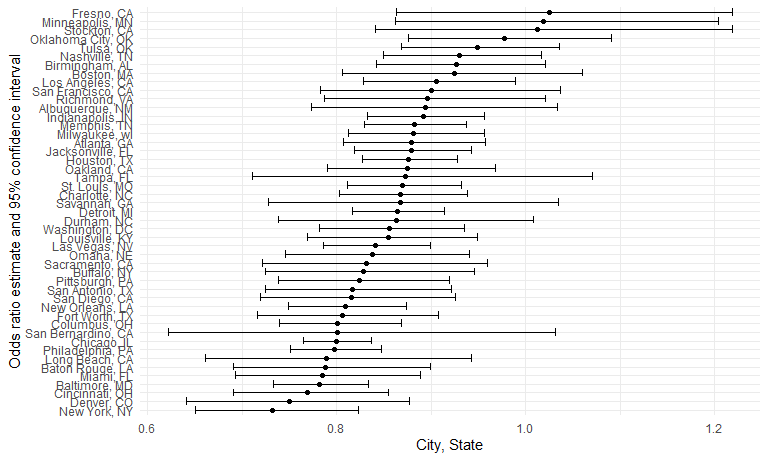
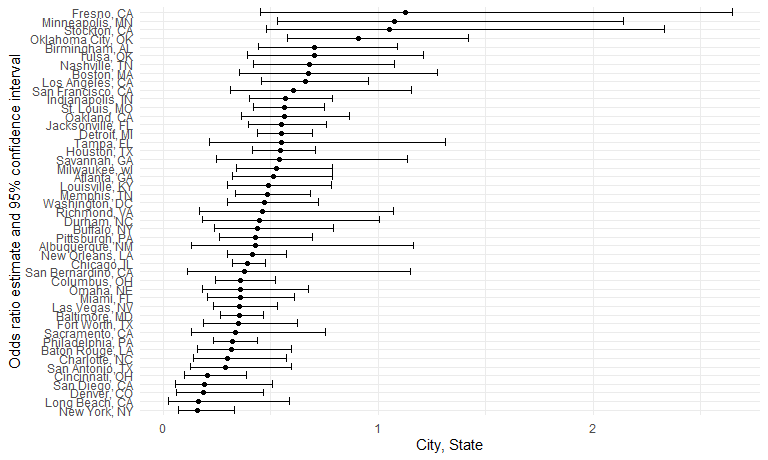
fixing the model to be logistics

diff --git a/P8105_hw6_rw3031.md b/P8105_hw6_rw3031.md
@@ -194,7 +194,7 @@ homocide|>
     resolve = case_when(
       disposition == "Open/No arrest" ~ 0,
       TRUE ~ 1))|>
-  summarise(model = list(glm(resolve~victim_age+victim_race+victim_sex)))|>
+  summarise(model = list(glm(resolve~victim_age+victim_race+victim_sex, family = "binomial")))|>
   mutate(results = map(model, ~ broom::tidy(.x, conf.int = TRUE, exponentiate = TRUE)))|>
   unnest(results)|>
   select(term, estimate, conf.low, conf.high)|>
@@ -204,7 +204,7 @@ homocide|>
     ## # A tibble: 1 × 4
     ##   term           estimate conf.low conf.high
     ##   <chr>             <dbl>    <dbl>     <dbl>
-    ## 1 victim_sexMale    0.781    0.733     0.833
+    ## 1 victim_sexMale    0.355    0.267     0.468
 
 ``` r
 homocide_glm = 
@@ -216,7 +216,7 @@ homocide|>
   group_by(city_state)|>
   nest()|>
   mutate(model = map(.x=data, ~glm(resolve~victim_age+victim_race+victim_sex, 
-                                         data = .x)),
+                                         data = .x, family="binomial")),
          results = map(model, ~ broom::tidy(.x, conf.int = TRUE, exponentiate = TRUE)))|>
   unnest(results)|>
   select(term, estimate, conf.low, conf.high)|>
@@ -227,24 +227,59 @@ homocide|>
     ## Adding missing grouping variables: `city_state`
 
 ``` r
-homocide_glm
+homocide_glm|>
+  knitr::kable()
 ```
 
-    ## # A tibble: 47 × 4
-    ## # Groups:   city_state [47]
-    ##    city_state      estimate conf.low conf.high
-    ##    <chr>              <dbl>    <dbl>     <dbl>
-    ##  1 Albuquerque, NM    0.894    0.774     1.03 
-    ##  2 Atlanta, GA        0.879    0.807     0.957
-    ##  3 Baltimore, MD      0.781    0.733     0.833
-    ##  4 Baton Rouge, LA    0.788    0.691     0.899
-    ##  5 Birmingham, AL     0.927    0.842     1.02 
-    ##  6 Boston, MA         0.924    0.806     1.06 
-    ##  7 Buffalo, NY        0.828    0.724     0.946
-    ##  8 Charlotte, NC      0.868    0.803     0.938
-    ##  9 Chicago, IL        0.800    0.764     0.836
-    ## 10 Cincinnati, OH     0.769    0.691     0.855
-    ## # ℹ 37 more rows
+| city_state         |  estimate |  conf.low | conf.high |
+|:-------------------|----------:|----------:|----------:|
+| Albuquerque, NM    | 0.4300644 | 0.1321195 | 1.1644219 |
+| Atlanta, GA        | 0.5120657 | 0.3227145 | 0.7886948 |
+| Baltimore, MD      | 0.3546711 | 0.2672667 | 0.4679109 |
+| Baton Rouge, LA    | 0.3187872 | 0.1601217 | 0.5956190 |
+| Birmingham, AL     | 0.7040171 | 0.4440724 | 1.0921842 |
+| Boston, MA         | 0.6739912 | 0.3534469 | 1.2768225 |
+| Buffalo, NY        | 0.4382357 | 0.2389619 | 0.7934521 |
+| Charlotte, NC      | 0.3008165 | 0.1426146 | 0.5720224 |
+| Chicago, IL        | 0.3908413 | 0.3207534 | 0.4758303 |
+| Cincinnati, OH     | 0.2055070 | 0.0976513 | 0.3898734 |
+| Columbus, OH       | 0.3605504 | 0.2434995 | 0.5246615 |
+| Denver, CO         | 0.1866018 | 0.0612606 | 0.4655967 |
+| Detroit, MI        | 0.5521572 | 0.4376513 | 0.6957475 |
+| Durham, NC         | 0.4500757 | 0.1810859 | 1.0068183 |
+| Fort Worth, TX     | 0.3514460 | 0.1885182 | 0.6252373 |
+| Fresno, CA         | 1.1288724 | 0.4541441 | 2.6482320 |
+| Houston, TX        | 0.5439159 | 0.4142318 | 0.7085284 |
+| Indianapolis, IN   | 0.5671757 | 0.4026431 | 0.7898494 |
+| Jacksonville, FL   | 0.5524443 | 0.3988218 | 0.7583191 |
+| Las Vegas, NV      | 0.3555558 | 0.2321529 | 0.5301228 |
+| Long Beach, CA     | 0.1650030 | 0.0258393 | 0.5879543 |
+| Los Angeles, CA    | 0.6618816 | 0.4565014 | 0.9541036 |
+| Louisville, KY     | 0.4905546 | 0.3014879 | 0.7836391 |
+| Memphis, TN        | 0.4856247 | 0.3373806 | 0.6850299 |
+| Miami, FL          | 0.3575003 | 0.2042412 | 0.6128066 |
+| Milwaukee, wI      | 0.5267948 | 0.3433924 | 0.7891580 |
+| Minneapolis, MN    | 1.0752482 | 0.5330060 | 2.1421664 |
+| Nashville, TN      | 0.6822269 | 0.4192049 | 1.0777906 |
+| New Orleans, LA    | 0.4146129 | 0.2974592 | 0.5748185 |
+| New York, NY       | 0.1613183 | 0.0691111 | 0.3313113 |
+| Oakland, CA        | 0.5630819 | 0.3637421 | 0.8671086 |
+| Oklahoma City, OK  | 0.9088271 | 0.5779497 | 1.4225063 |
+| Omaha, NE          | 0.3580891 | 0.1810716 | 0.6777943 |
+| Philadelphia, PA   | 0.3241547 | 0.2351963 | 0.4395746 |
+| Pittsburgh, PA     | 0.4307528 | 0.2626022 | 0.6955518 |
+| Richmond, VA       | 0.4598351 | 0.1673424 | 1.0723841 |
+| San Antonio, TX    | 0.2877665 | 0.1255789 | 0.5950376 |
+| Sacramento, CA     | 0.3373690 | 0.1317522 | 0.7567081 |
+| Savannah, GA       | 0.5404376 | 0.2458680 | 1.1351176 |
+| San Bernardino, CA | 0.3804816 | 0.1118644 | 1.1488399 |
+| San Diego, CA      | 0.1935152 | 0.0559611 | 0.5107881 |
+| San Francisco, CA  | 0.6075362 | 0.3116925 | 1.1551470 |
+| St. Louis, MO      | 0.5640965 | 0.4221196 | 0.7506507 |
+| Stockton, CA       | 1.0545534 | 0.4803016 | 2.3320354 |
+| Tampa, FL          | 0.5510486 | 0.2135644 | 1.3109552 |
+| Tulsa, OK          | 0.7025057 | 0.3920137 | 1.2113940 |
+| Washington, DC     | 0.4711307 | 0.2998001 | 0.7202004 |
 
 ## plot for the or estimate and confidence interval on homocide for each city
 
